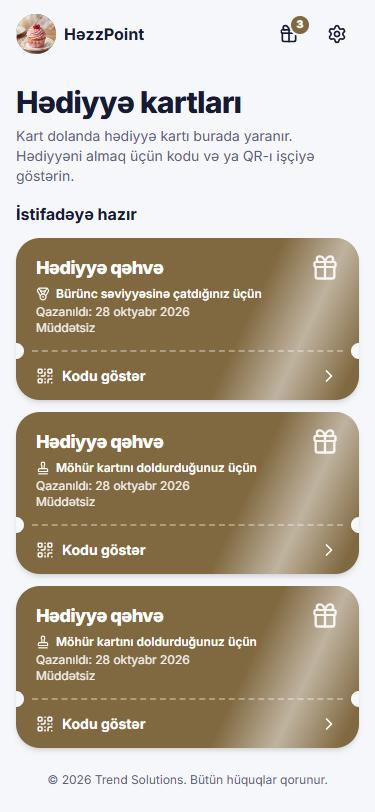
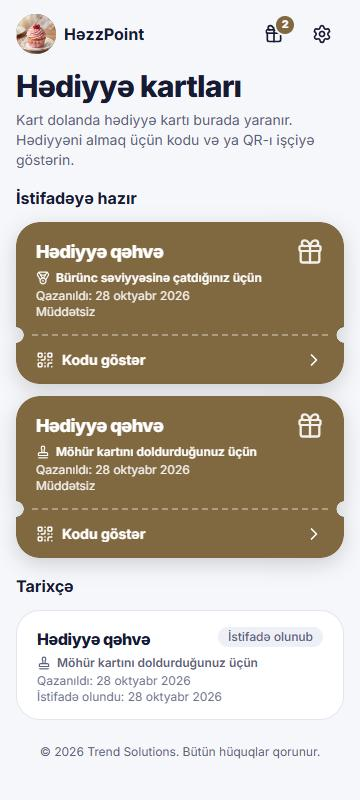
fix(customer): cut real ticket notches and tidy gift card history layout
Ticket notches were background-coloured dots on top of the card, so the box
shadow ran straight across them. They are now real cut-outs (CSS mask) with a
drop-shadow on the wrapper that follows the shape, on gift cards and the home
gifts ticket. Gift card headers keep the name and status on one row with the
reason and dates full width below, so the status badge no longer wraps.

diff --git a/fe-tapstamp/src/customer/pages/GiftCardsPage.tsx b/fe-tapstamp/src/customer/pages/GiftCardsPage.tsx
@@ -166,70 +166,76 @@ function GiftCardTile({ card, onShow }: { card: GiftCard; onShow?: () => void })
   const daysLeft = card.expiresAt
     ? Math.max(0, Math.ceil((Date.parse(card.expiresAt) - Date.now()) / 86_400_000))
     : undefined;
+  const ticket = active && onShow;
   return (
-    <article
-      className={cn(
-        'relative overflow-hidden rounded-3xl',
-        active ? 'shine bg-primary text-primary-foreground shadow-md' : 'border border-border bg-card text-muted-foreground',
-      )}
-    >
-      <div className="flex items-start justify-between gap-3 px-5 pt-4 pb-3.5">
-        <div className="min-w-0">
-          <p className={cn('font-extrabold tracking-tight', active ? 'text-lg' : 'text-base text-foreground')}>
-            {resolveText(card.name, lang)}
-          </p>
-          {/* Niyə verilib: möhür kartı doldu və ya səviyyəyə çatdı */}
-          <p className="mt-1 flex items-center gap-1.5 text-xs font-semibold">
-            {card.source === 'TIER' ? (
-              <Medal className="size-3.5 shrink-0" aria-hidden="true" />
-            ) : (
-              <Stamp className="size-3.5 shrink-0" aria-hidden="true" />
-            )}
-            {card.source === 'TIER'
-              ? t('giftCards.reason.TIER', { tier: resolveText(card.tierName, lang) })
-              : t('giftCards.reason.CARD')}
-          </p>
-          <p className="mt-0.5 flex flex-col text-xs opacity-90">
-            {card.earnedAt ? <span>{t('giftCards.earnedAt', { date: formatDate(card.earnedAt, lang) })}</span> : null}
-            {card.status === 'REDEEMED' && card.redeemedAt ? (
-              <span>{t('giftCards.redeemedAt', { date: formatDate(card.redeemedAt, lang) })}</span>
-            ) : (
-              <span>
-                {card.expiresAt ? t('giftCards.expiresAt', { date: formatDate(card.expiresAt, lang) }) : t('giftCards.noExpiry')}
-              </span>
-            )}
-          </p>
-        </div>
-        {active ? (
-          daysLeft !== undefined && daysLeft <= 7 ? (
-            <span className="shrink-0 rounded-full bg-white px-2.5 py-0.5 text-xs font-bold whitespace-nowrap text-primary">
-              {t('giftCards.expiresSoon', { count: daysLeft })}
-            </span>
-          ) : (
-            <Gift className="size-7 shrink-0 opacity-90" aria-hidden="true" />
-          )
-        ) : (
-          <Badge>{t(`giftCards.status.${card.status ?? 'EXPIRED'}`)}</Badge>
+    // Kölgə valideyndədir (drop-shadow): kartın kəsilmiş formasını, o cümlədən yarımdairə kəsikləri izləyir
+    <div className={active ? 'drop-shadow-[0_6px_10px_rgb(0_0_0/0.16)]' : undefined}>
+      <article
+        className={cn(
+          'relative overflow-hidden rounded-3xl',
+          active ? 'shine bg-primary text-primary-foreground' : 'border border-border bg-card text-muted-foreground',
+          // Kəsiklər qırıq xəttin bərabərində: düymə 48px + xətt 2px → mərkəz aşağıdan 49px
+          ticket ? 'ticket-sides [--notch-y:calc(100%-49px)]' : null,
         )}
-      </div>
-      {active && onShow ? (
-        <>
-          {/* Perforasiya: qırıq xətt və kənarlarda yarımdairə kəsiklər */}
-          <div className="relative mx-4 border-t-2 border-dashed border-white/35" aria-hidden="true">
-            <span className="absolute -top-[9px] -left-6 size-4 rounded-full bg-background" />
-            <span className="absolute -top-[9px] -right-6 size-4 rounded-full bg-background" />
+      >
+        <div className="px-5 pt-4 pb-3.5">
+          {/* Yuxarı sətir: ad və vəziyyət yan-yana; səbəb və tarixlər altda kartın tam enində */}
+          <div className="flex items-start justify-between gap-3">
+            <p className={cn('min-w-0 font-extrabold tracking-tight', active ? 'text-lg' : 'text-base text-foreground')}>
+              {resolveText(card.name, lang)}
+            </p>
+            {active ? (
+              daysLeft !== undefined && daysLeft <= 7 ? (
+                <span className="shrink-0 rounded-full bg-white px-2.5 py-0.5 text-xs font-bold whitespace-nowrap text-primary">
+                  {t('giftCards.expiresSoon', { count: daysLeft })}
+                </span>
+              ) : (
+                <Gift className="size-7 shrink-0 opacity-90" aria-hidden="true" />
+              )
+            ) : (
+              <Badge className="shrink-0 whitespace-nowrap">{t(`giftCards.status.${card.status ?? 'EXPIRED'}`)}</Badge>
+            )}
           </div>
-          <button
-            type="button"
-            onClick={onShow}
-            className="flex w-full items-center gap-2 px-5 py-3.5 text-sm font-bold focus-visible:bg-white/10 focus-visible:outline-none"
-          >
-            <QrIcon className="size-[18px]" aria-hidden="true" />
-            {t('giftCards.show')}
-            <ChevronRight className="ml-auto size-5" aria-hidden="true" />
-          </button>
-        </>
-      ) : null}
-    </article>
+          <div className="min-w-0">
+            {/* Niyə verilib: möhür kartı doldu və ya səviyyəyə çatdı */}
+            <p className="mt-1 flex items-start gap-1.5 text-xs font-semibold">
+              {card.source === 'TIER' ? (
+                <Medal className="mt-px size-3.5 shrink-0" aria-hidden="true" />
+              ) : (
+                <Stamp className="mt-px size-3.5 shrink-0" aria-hidden="true" />
+              )}
+              {card.source === 'TIER'
+                ? t('giftCards.reason.TIER', { tier: resolveText(card.tierName, lang) })
+                : t('giftCards.reason.CARD')}
+            </p>
+            <p className="mt-0.5 flex flex-col text-xs opacity-90">
+              {card.earnedAt ? <span>{t('giftCards.earnedAt', { date: formatDate(card.earnedAt, lang) })}</span> : null}
+              {card.status === 'REDEEMED' && card.redeemedAt ? (
+                <span>{t('giftCards.redeemedAt', { date: formatDate(card.redeemedAt, lang) })}</span>
+              ) : (
+                <span>
+                  {card.expiresAt ? t('giftCards.expiresAt', { date: formatDate(card.expiresAt, lang) }) : t('giftCards.noExpiry')}
+                </span>
+              )}
+            </p>
+          </div>
+        </div>
+        {active && onShow ? (
+          <>
+            {/* Perforasiya: qırıq xətt; kənarlardakı yarımdairə kəsiklər kartın maskasındadır (ticket-sides) */}
+            <div className="mx-4 border-t-2 border-dashed border-white/35" aria-hidden="true" />
+            <button
+              type="button"
+              onClick={onShow}
+              className="flex h-12 w-full items-center gap-2 px-5 text-sm font-bold focus-visible:bg-white/10 focus-visible:outline-none"
+            >
+              <QrIcon className="size-[18px]" aria-hidden="true" />
+              {t('giftCards.show')}
+              <ChevronRight className="ml-auto size-5" aria-hidden="true" />
+            </button>
+          </>
+        ) : null}
+      </article>
+    </div>
   );
 }

diff --git a/fe-tapstamp/src/customer/pages/HomePage.tsx b/fe-tapstamp/src/customer/pages/HomePage.tsx
@@ -78,27 +78,28 @@ function Profile({ me }: { me: Me }) {
       ) : null}
       {rewards.length > 0 ? (
         // Bilet formalı blok: solda hədiyyə ikonu, qırıq xətt və iki yarımdairə kəsik, sağda hazır hədiyyələr
-        <Link
-          to="/gift-cards"
-          className="shine animate-attention relative flex items-center gap-3 overflow-hidden rounded-2xl bg-primary p-4 text-primary-foreground shadow-md [--shine-delay:1.2s] focus-visible:outline-none focus-visible:ring-2 focus-visible:ring-ring"
-        >
-          <span className="absolute -top-2 left-[3.6rem] size-4 rounded-full bg-background" aria-hidden="true" />
-          <span className="absolute -bottom-2 left-[3.6rem] size-4 rounded-full bg-background" aria-hidden="true" />
-          {/* Hədiyyə ikonu vaxtaşırı yellənir, yanında hazır hədiyyələrin sayı */}
-          <span className="relative grid w-11 shrink-0 place-items-center border-r-2 border-dashed border-white/40 pr-3">
-            <Gift className="animate-gift-wiggle size-7" aria-hidden="true" />
-            <span className="absolute -top-2 right-1 grid h-[18px] min-w-[18px] place-items-center rounded-full bg-white px-1 text-[10.5px] font-extrabold text-primary shadow">
-              {rewards.length}
+        // Kölgə valideyndədir: kəsilmiş bilet formasını izləyir
+        <div className="drop-shadow-[0_6px_10px_rgb(0_0_0/0.16)]">
+          <Link
+            to="/gift-cards"
+            className="shine animate-attention ticket-ends relative flex items-center gap-3 overflow-hidden rounded-2xl bg-primary p-4 text-primary-foreground [--notch-x:calc(3.75rem-1px)] [--shine-delay:1.2s] focus-visible:outline-none focus-visible:ring-2 focus-visible:ring-ring"
+          >
+            {/* Hədiyyə ikonu vaxtaşırı yellənir, yanında hazır hədiyyələrin sayı */}
+            <span className="relative grid w-11 shrink-0 place-items-center border-r-2 border-dashed border-white/40 pr-3">
+              <Gift className="animate-gift-wiggle size-7" aria-hidden="true" />
+              <span className="absolute -top-2 right-1 grid h-[18px] min-w-[18px] place-items-center rounded-full bg-white px-1 text-[10.5px] font-extrabold text-primary shadow">
+                {rewards.length}
+              </span>
             </span>
-          </span>
-          <span className="min-w-0 flex-1 pl-1">
-            <span className="block text-base font-bold">{t('rewards.title')}</span>
-            <span className="block truncate text-sm opacity-90">
-              {rewards.map((reward) => resolveText(reward.name, lang)).join(', ')}
+            <span className="min-w-0 flex-1 pl-1">
+              <span className="block text-base font-bold">{t('rewards.title')}</span>
+              <span className="block truncate text-sm opacity-90">
+                {rewards.map((reward) => resolveText(reward.name, lang)).join(', ')}
+              </span>
             </span>
-          </span>
-          <ChevronRight className="animate-nudge size-6 shrink-0" aria-label={t('rewards.open')} />
-        </Link>
+            <ChevronRight className="animate-nudge size-6 shrink-0" aria-label={t('rewards.open')} />
+          </Link>
+        </div>
       ) : null}
       {/* Təkliflər bir siyahıdadır; heç biri göstərilmirsə siyahı da görünmür */}
       <div className="divide-y divide-border overflow-hidden rounded-2xl border border-border bg-card empty:hidden">

diff --git a/fe-tapstamp/src/shared/styles/globals.css b/fe-tapstamp/src/shared/styles/globals.css
@@ -250,6 +250,26 @@ input::-ms-clear {
   }
 }
 
+/*
+ * Bilet kəsikləri: kartda həqiqi yarımdairə deşiklər (mask). Fon rəngində dairə qoymaqdan fərqli olaraq, kölgə
+ * (valideyndə filter: drop-shadow) kəsiyin ətrafında yarımdairə kimi dönür. Hər mask qatı kartın yarısını örtür.
+ *   ticket-sides — sol və sağ kənarda, yuxarıdan --notch-y məsafədə (məs. calc(100% - 49px));
+ *   ticket-ends — yuxarı və aşağı kənarda, soldan --notch-x məsafədə.
+ */
+@utility ticket-sides {
+  mask:
+    radial-gradient(circle var(--notch-r, 8px) at 0 var(--notch-y, 50%), #0000 calc(100% - 0.5px), #000) left / 51% 100% no-repeat,
+    radial-gradient(circle var(--notch-r, 8px) at 100% var(--notch-y, 50%), #0000 calc(100% - 0.5px), #000) right / 51% 100%
+      no-repeat;
+}
+
+@utility ticket-ends {
+  mask:
+    radial-gradient(circle var(--notch-r, 8px) at var(--notch-x, 50%) 0, #0000 calc(100% - 0.5px), #000) top / 100% 51% no-repeat,
+    radial-gradient(circle var(--notch-r, 8px) at var(--notch-x, 50%) 100%, #0000 calc(100% - 0.5px), #000) bottom / 100% 51%
+      no-repeat;
+}
+
 @utility shine {
   &::after {
     content: '';
